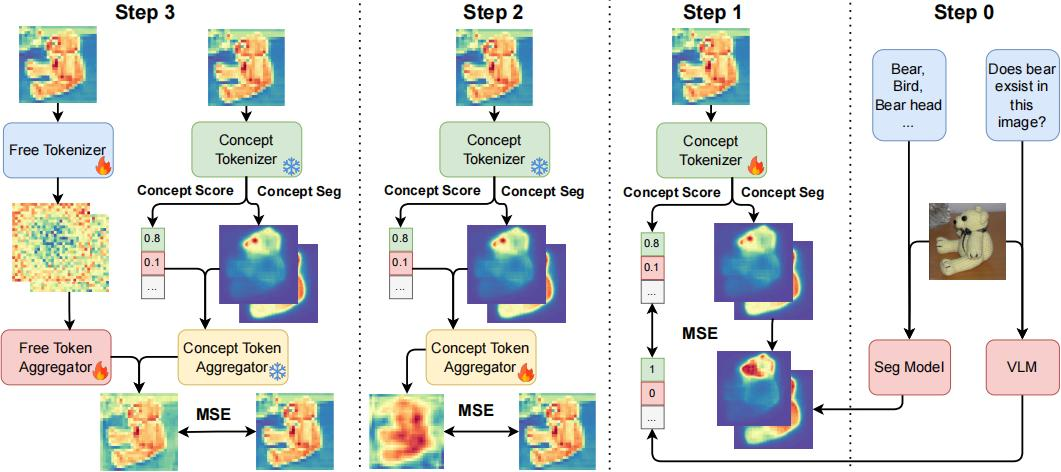
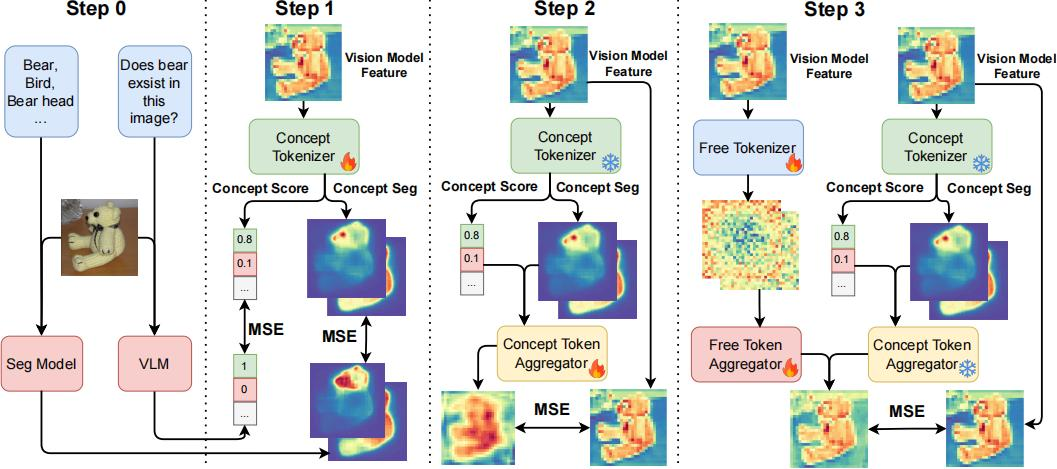
update

diff --git a/index.html b/index.html
@@ -121,8 +121,8 @@
                                 <li class="list-item-with-logo-pub">
                                     <img src="imgs/pub/concept-sae.jpg" class="pub-img">
                                     <div class="publication">
-                                    <p class="pub-venue">In arXiv '25</p>
-                                    <p class="pub-title">Concept-SAE: Active Causal Probing of Visual Model Behavior</p>
+                                    <p class="pub-venue">ECML PKDD '26</p>
+                                    <p class="pub-title">Concept-SAE: A Controllable and Invertible Concept Interface for Sparse Autoencoders</p>
                                     <p class="pub-authors"><span class="me">Jianrong Ding*</span>, Muxi Chen*, Chenchen Zhao, Qiang Xu</p>
                                     <p class="pub-links"><a href="https://arxiv.org/abs/2509.22015">[paper]</a>  <a href="https://github.com/RafaDD/Concept-SAE">[code]</a></p>
                                     </div>
